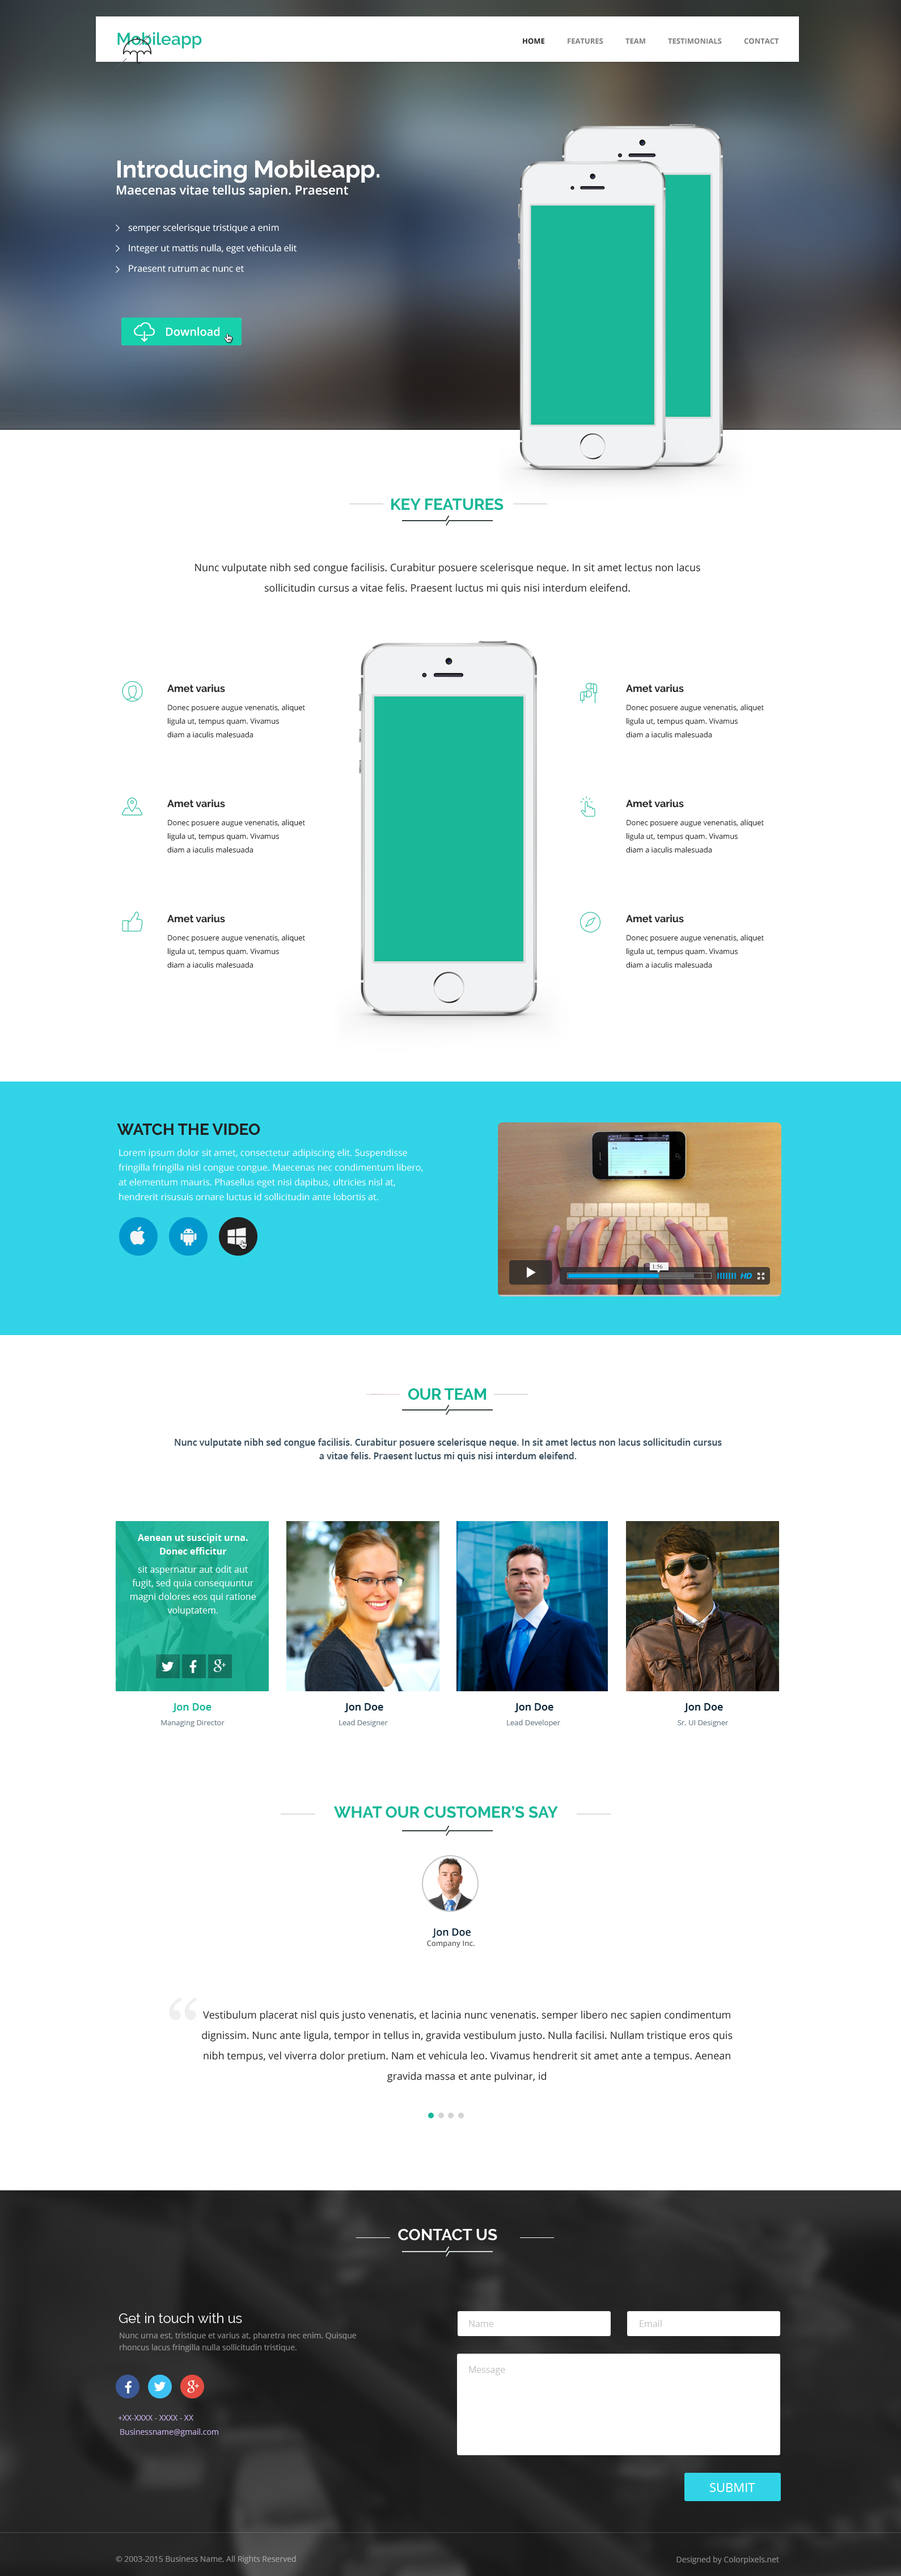
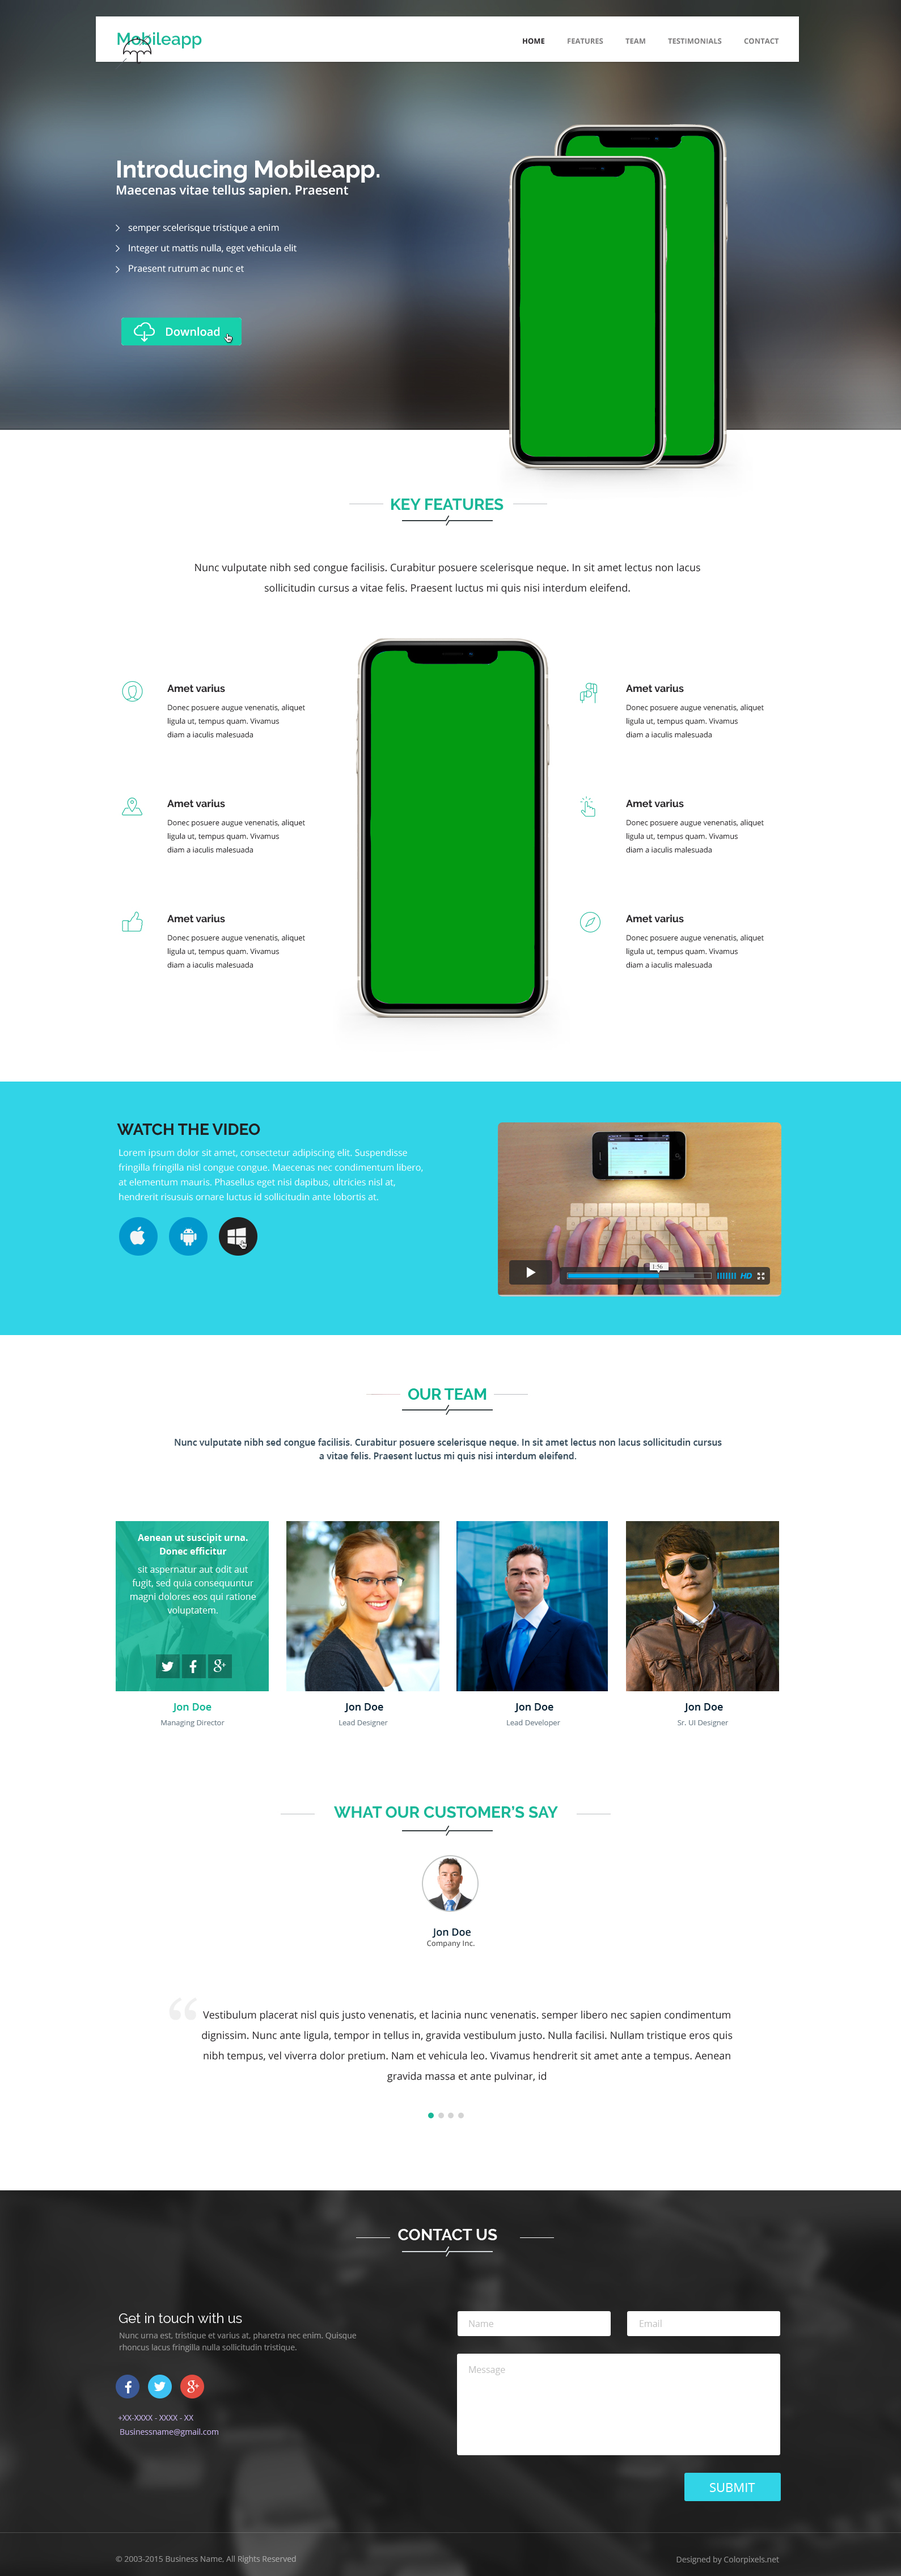
End first part, will finish the mobile version at the end of the layout

Changed region(s): [[0.5551, 0.031, 0.8326, 0.1863], [0.37, 0.2483, 0.6167, 0.4036]]

diff --git a/index.html b/index.html
@@ -4,7 +4,7 @@
     <meta charset="UTF-8">
     <meta name="viewport" content="width=device-width, initial-scale=1.0">
     <title>MobileApp</title>
-    <link rel="stylesheet" href="../mobileapp/css/style.css">
+    <link rel="stylesheet" type="text/css" href="css/style.css">
     <link rel="preconnect" href="https://fonts.gstatic.com">
 <link href="https://fonts.googleapis.com/css2?family=Raleway:wght@600&display=swap" rel="stylesheet"> 
 <link rel="preconnect" href="https://fonts.gstatic.com">
@@ -13,12 +13,12 @@
 </head>
 <body>
    <div class="container-fluid">
-        <nav class="m-auto col-12 navbar navbar-expand-lg navbar-light border border-dark mr-1 position-relative bg-white" style="width: 1240px; height: 75px; top:20px; right: 6px;">
+        <nav class="m-auto col-12 navbar navbar-expand-lg navbar-light border border-dark mr-1 position-relative bg-white" style="width: 1240px; height: 75px; top:20px; right: 6px; z-index: 3;">
             <a class="navbar-brand ml-3 position-relative" href="#" style="font-size: 30px; font-family: 'Raleway', sans-serif; left: 4px;">Mobileapp</a>
             <button class="navbar-toggler" type="button" data-toggle="collapse" data-target="#navbarNav" aria-controls="navbarNav" aria-expanded="false" aria-label="Toggle navigation">
               <span class="navbar-toggler-icon"></span>
             </button>
-            <div class="bg-white navbar-collapse text-right m-auto col-4 collapse" id="navbarNav" style="top: 2px;">
+            <div class="bg-white navbar-collapse text-right m-auto col-4 collapse" id="navbarNav" style="top: 2px; z-index: 3;">
               <ul class="navbar-nav">
                 <li class="nav-item ml-5">
                     <a class="nav-link position-relative ml-3" href="#" style="font-size: 13px; font-family: 'Open Sans', sans-serif; right: 44px;">HOME <span class="sr-only">(current)</span></a>
@@ -38,7 +38,19 @@
               </ul>
             </div>
           </nav>
-    </div>
+          <img src="image/firstbg.jpg" class="img-fluid mb-5 position-relative" style="bottom: 75px; z-index: 1; height: 745px; pointer-events: none; ">
+          <p class="text-left position-relative m-auto col-6" style="font-family: 'Raleway', sans-serif; font-size: 42px; bottom: 700px; z-index: 2; color:white; right: 105px;">Introducing Mobileapp</p>
+          <p class="text-left position-relative m-auto col-6" style="font-family: 'OpenSans', sans-serif; font-size: 22px; bottom: 690px; z-index: 2; color:white; right: 105px;">Lorem ipsum dolor sit. Praesent</p>
+          <p class="text-left position-relative m-auto col-6" style="font-family: 'OpenSans', sans-serif; font-size: 20px; bottom: 650px; z-index: 2; color:white; right: 105px;">>semper scelerisque tristique a enim</p>
+          <p class="text-left position-relative m-auto col-6" style="font-family: 'OpenSans', sans-serif; font-size: 20px; bottom: 630px; z-index: 2; color:white; right: 105px;">>Integer ut mattis nulla, eget vehicila elit</p>
+          <p class="text-left position-relative m-auto col-6" style="font-family: 'OpenSans', sans-serif; font-size: 20px; bottom: 610px; z-index: 2; color:white; right: 105px;">>Praesent rutrum ac nunc et</p>
+          <p class="col-6 m-auto">
+          <button type="button" class="btn text-center position-relative m-auto" style="background-color: #17d0ac; color: #ffff; font-family: 'OpenSans', sans-serif; font-size: 16px; width: 210px; height: 50px; right: 100px; bottom: 550px; z-index: 2;">Download</button>
+        </p>
+          <p class="text-right col-8 m-auto" style="z-index: 2; pointer-events: none; bottom:900px; left:85px;">
+          <img src="image/iphones.jpg" class="img-fluid">
+          </p>
+        </div>
 
 
 

diff --git a/css/style.css b/css/style.css
@@ -1,6 +1,9 @@
 body{
     width: 100%;
-    background-image: url(../img/firstbg.png);
-    background-size: 1920px 932px;
 }
 
+.text{
+z-index: 2;
+font-size: 22px;
+font-family: 'OpenSans', sans-serif;
+}
